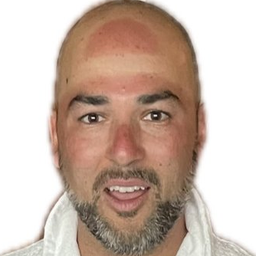
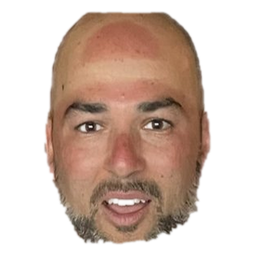
Updated Frosty

diff --git a/src/HerbtownClassic.jsx b/src/HerbtownClassic.jsx
@@ -313,6 +313,8 @@ export default function HerbtownClassic() {
         @keyframes fadeIn { from { opacity: 0; transform: translateY(8px); } to { opacity: 1; transform: translateY(0); } }
         .pulse-dot { animation: pulse 2s ease-in-out infinite; }
         @keyframes pulse { 0%, 100% { opacity: 1; } 50% { opacity: 0.4; } }
+        .safe-top { padding-top: max(env(safe-area-inset-top), 20px); }
+        .safe-bottom { padding-bottom: max(env(safe-area-inset-bottom), 0px); }
       `}</style>
 
       {view === 'home' && (
@@ -516,7 +518,7 @@ function HerbtownLogo() {
 // ============= HOME VIEW =============
 function HomeView({ setRoundIdx, setView, scores, snakes, ctp, sideBets, resetAll }) {
   return (
-    <div className="fade-in" style={{ padding: '20px 18px 100px', maxWidth: '500px', margin: '0 auto' }}>
+    <div className="fade-in safe-top" style={{ padding: '8px 18px 100px', maxWidth: '500px', margin: '0 auto' }}>
       {/* Header - Logo */}
       <div style={{ textAlign: 'center', marginBottom: '20px', paddingTop: '8px' }}>
         <HerbtownLogo />
@@ -961,7 +963,7 @@ function RoundView({ round, roundIdx, scores, snakes, ctp, sideBets, saveScores,
   const teams = round.type === 'standard' ? generateTeams(round.id) : null;
 
   return (
-    <div className="fade-in" style={{ padding: '16px 14px 120px', maxWidth: '500px', margin: '0 auto' }}>
+    <div className="fade-in safe-top" style={{ padding: '8px 14px 120px', maxWidth: '500px', margin: '0 auto' }}>
       {/* Header */}
       <div style={{ display: 'flex', alignItems: 'center', gap: '8px', marginBottom: '12px' }}>
         <button
@@ -1179,7 +1181,7 @@ function TeeBadge({ tee, size = 'sm' }) {
 }
 
 // Circular player headshot sticker
-function PlayerAvatar({ player, size = 24, showBorder = true }) {
+function PlayerAvatar({ player, size = 24, showBorder = false }) {
   if (!player || !PLAYERS.includes(player)) return null;
   const src = `/${player.toLowerCase()}.png`;
   return (
@@ -1189,14 +1191,13 @@ function PlayerAvatar({ player, size = 24, showBorder = true }) {
       style={{
         width: `${size}px`,
         height: `${size}px`,
-        borderRadius: '50%',
-        objectFit: 'cover',
+        objectFit: 'contain',
         border: showBorder ? '2px solid #d4a574' : 'none',
-        background: '#0a1f0f',
+        borderRadius: showBorder ? '50%' : '0',
         flexShrink: 0,
         display: 'inline-block',
         verticalAlign: 'middle',
-        boxShadow: '0 1px 4px rgba(0,0,0,0.3)',
+        filter: 'drop-shadow(0 1px 3px rgba(0,0,0,0.5))',
       }}
     />
   );
@@ -2331,7 +2332,7 @@ function SummaryView({ scores, snakes, ctp, sideBets, setView }) {
   const maxTotal = Math.max(...PLAYERS.map((p) => totals[p].total));
 
   return (
-    <div className="fade-in" style={{ padding: '20px 16px 80px', maxWidth: '500px', margin: '0 auto' }}>
+    <div className="fade-in safe-top" style={{ padding: '8px 16px 80px', maxWidth: '500px', margin: '0 auto' }}>
       <button
         onClick={() => setView('home')}
         style={{
